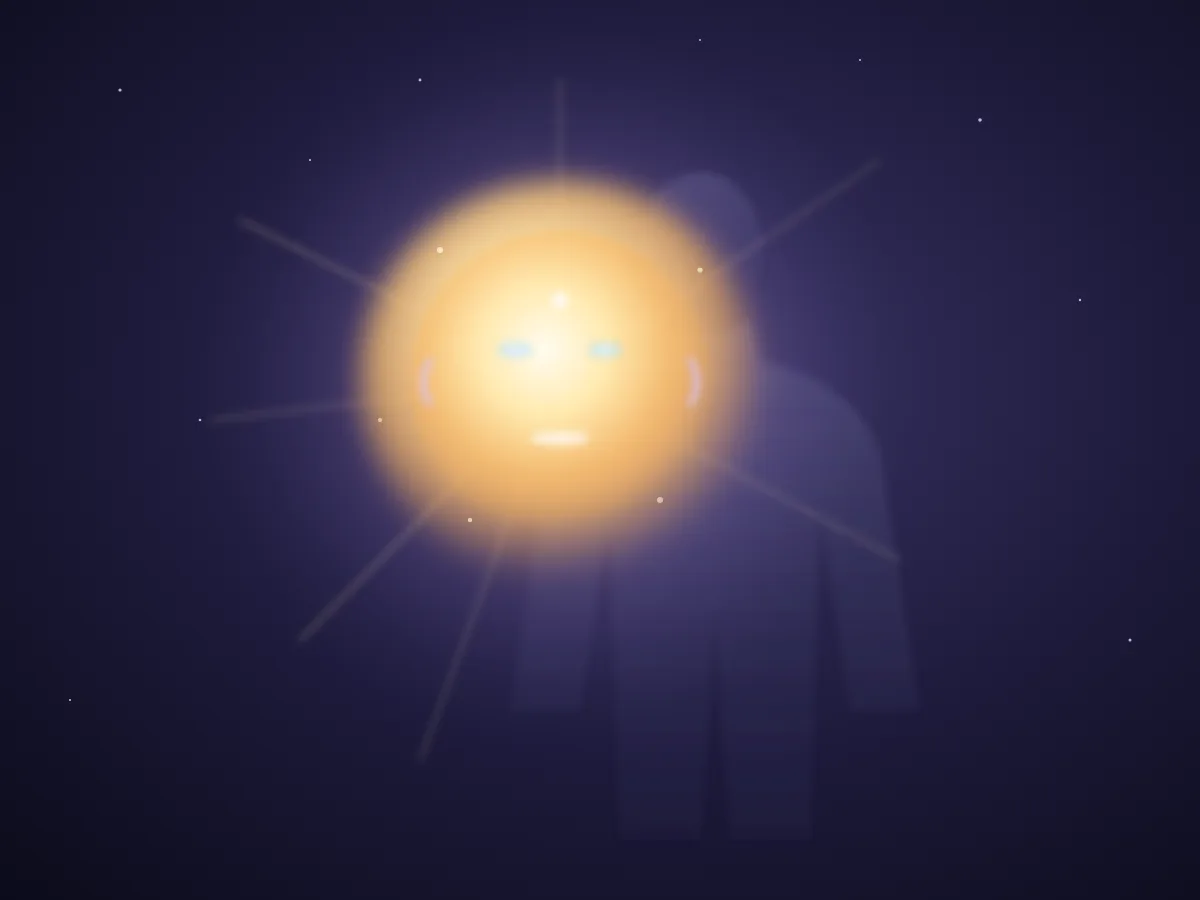
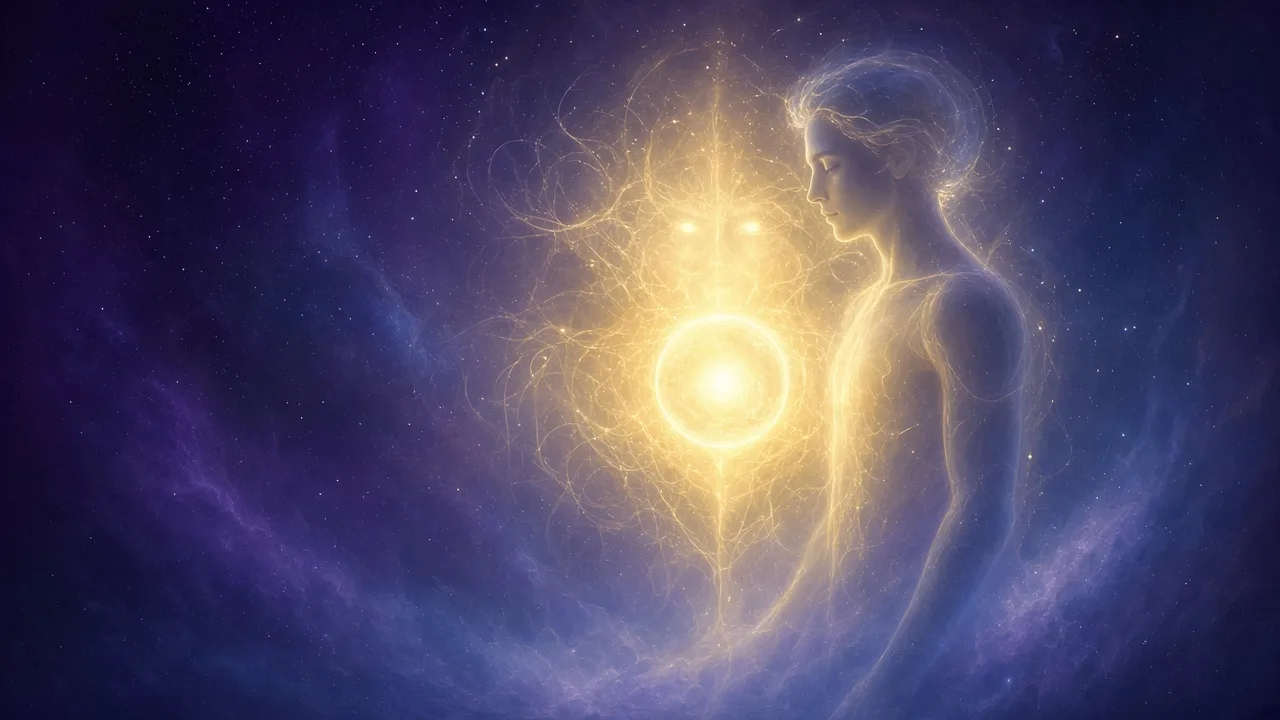
Corps de lumière: vraie image, barre masquée

diff --git a/index.html b/index.html
@@ -443,7 +443,7 @@
   <p class="kicker">Dernière étape · La vision de l'auteur</p>
   <h2>Le corps de lumière</h2>
   <figure class="light-fig">
-    <img src="images/corps-de-lumiere.webp" width="1200" height="900" loading="lazy" alt="Une boule de lumière dorée, douce, avec des yeux, une bouche et des oreilles lumineuses, flotte légèrement devant la silhouette sombre et transparente d'un corps humain, sur un fond de nuit étoilée violette. Des rayons de lumière partent de la boule dans toutes les directions.">
+    <img src="images/corps-de-lumiere.webp" width="1280" height="720" loading="lazy" alt="Une sphère de lumière dorée et rayonnante flotte légèrement devant un corps humain translucide. Le corps de lumière a des yeux lumineux. Le fond est une nuit violette étoilée.">
     <figcaption>Illustration : l'être de lumière, un peu devant le corps.</figcaption>
   </figure>
   <div class="light-text">

diff --git a/path.js b/path.js
@@ -57,6 +57,6 @@
   };
   paint(); window.__path = got.slice();
   // n'afficher la barre que dans les chapitres 2 et 3
-  const zone = () => { const a = document.getElementById('communiquer'), z = document.querySelector('.end'); if (!a || !z) return; const y = scrollY + innerHeight / 2; bar.classList.toggle('visible', y > a.offsetTop && y < z.offsetTop + 200); };
+  const zone = () => { const a = document.getElementById('communiquer'), z = document.getElementById('corps-de-lumiere') || document.querySelector('.end'); if (!a || !z) return; const y = scrollY + innerHeight / 2; bar.classList.toggle('visible', y > a.offsetTop && y < z.offsetTop - 80); };
   addEventListener('scroll', zone, { passive: true }); zone();
 })();
